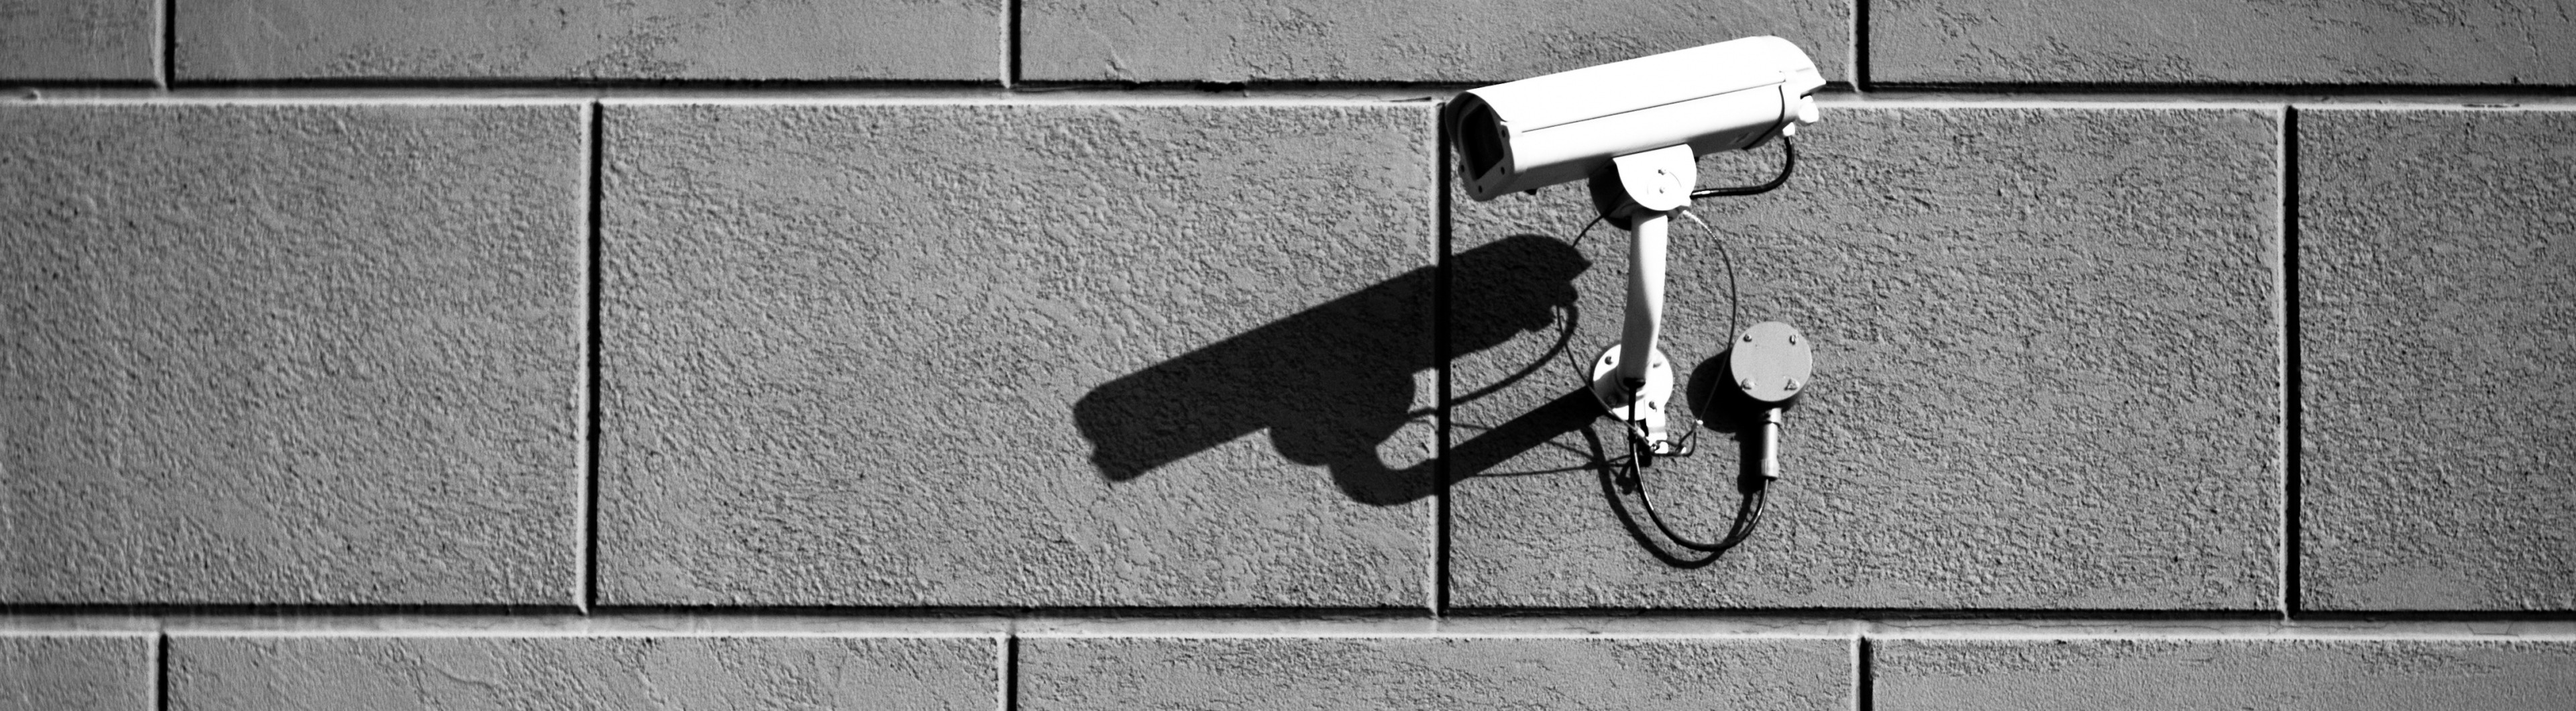
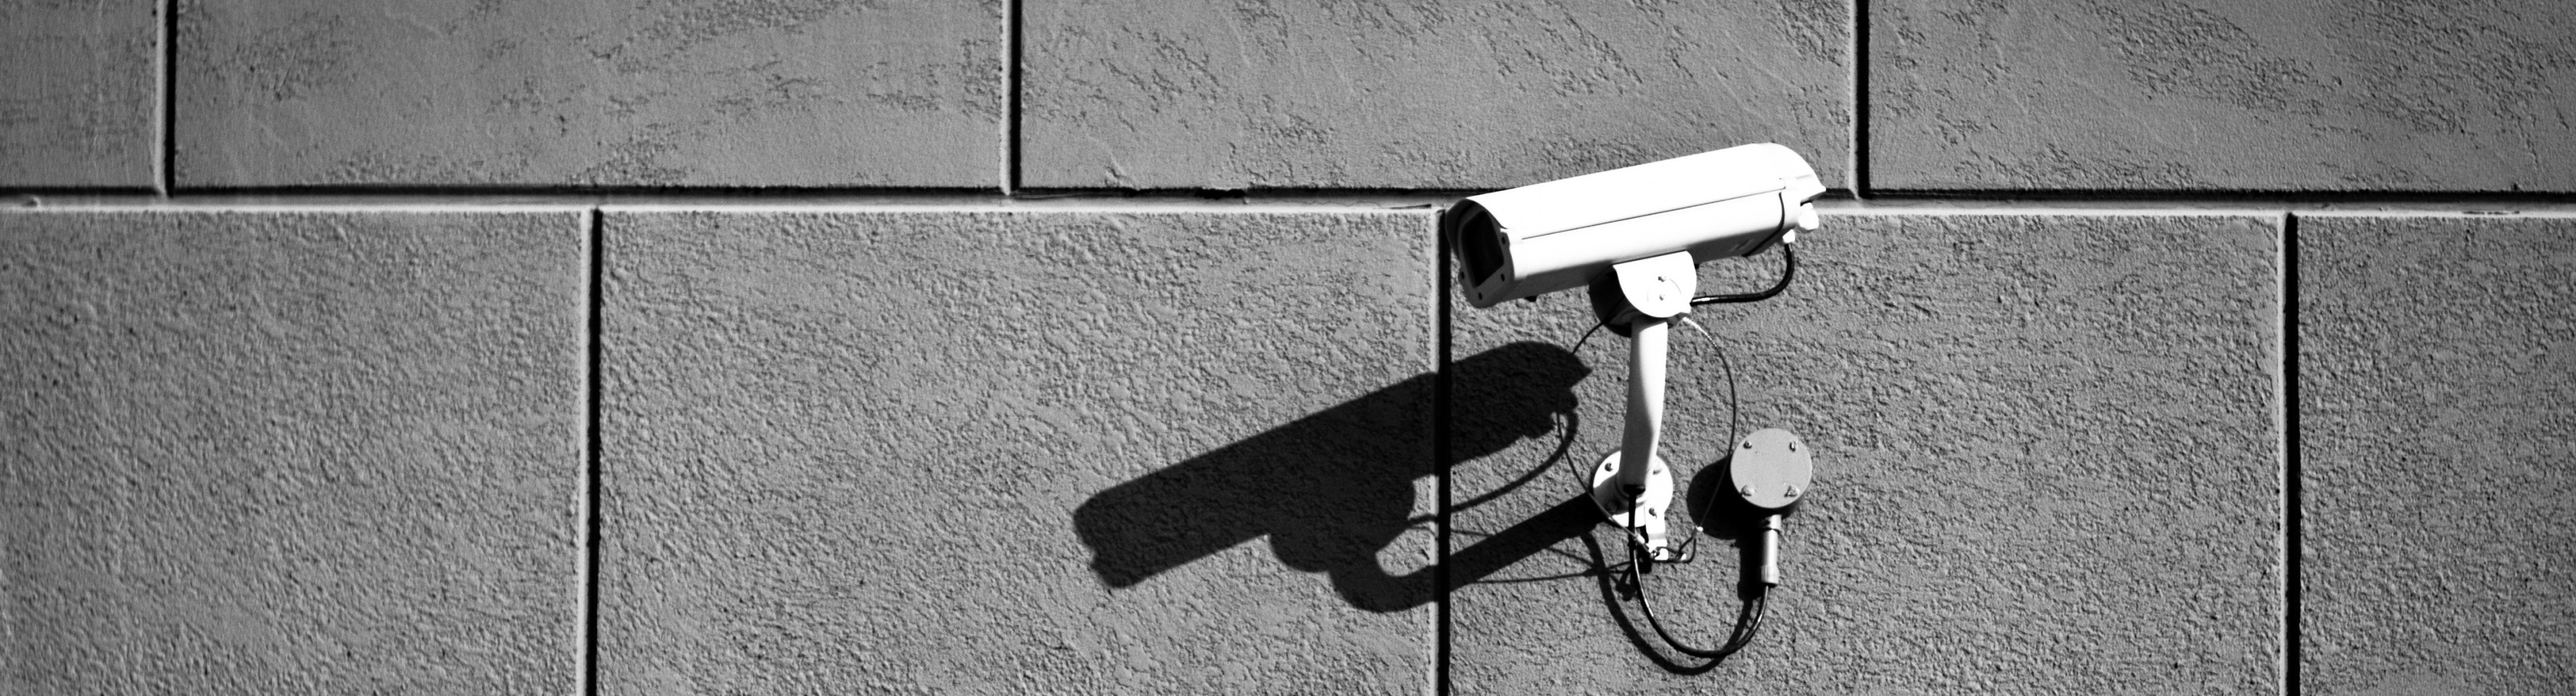
Add header image 3

diff --git a/pages/design.md b/pages/design.md
@@ -4,7 +4,7 @@ show_meta: false
 title: "Style your content!"
 subheadline: "Layouts of Feeling Responsive"
 header:
-   image_fullwidth: "header_unsplash_5.jpg"
+   image_fullwidth: "camera3.jpg"
 permalink: "/design/"
 ---
 <ul>
